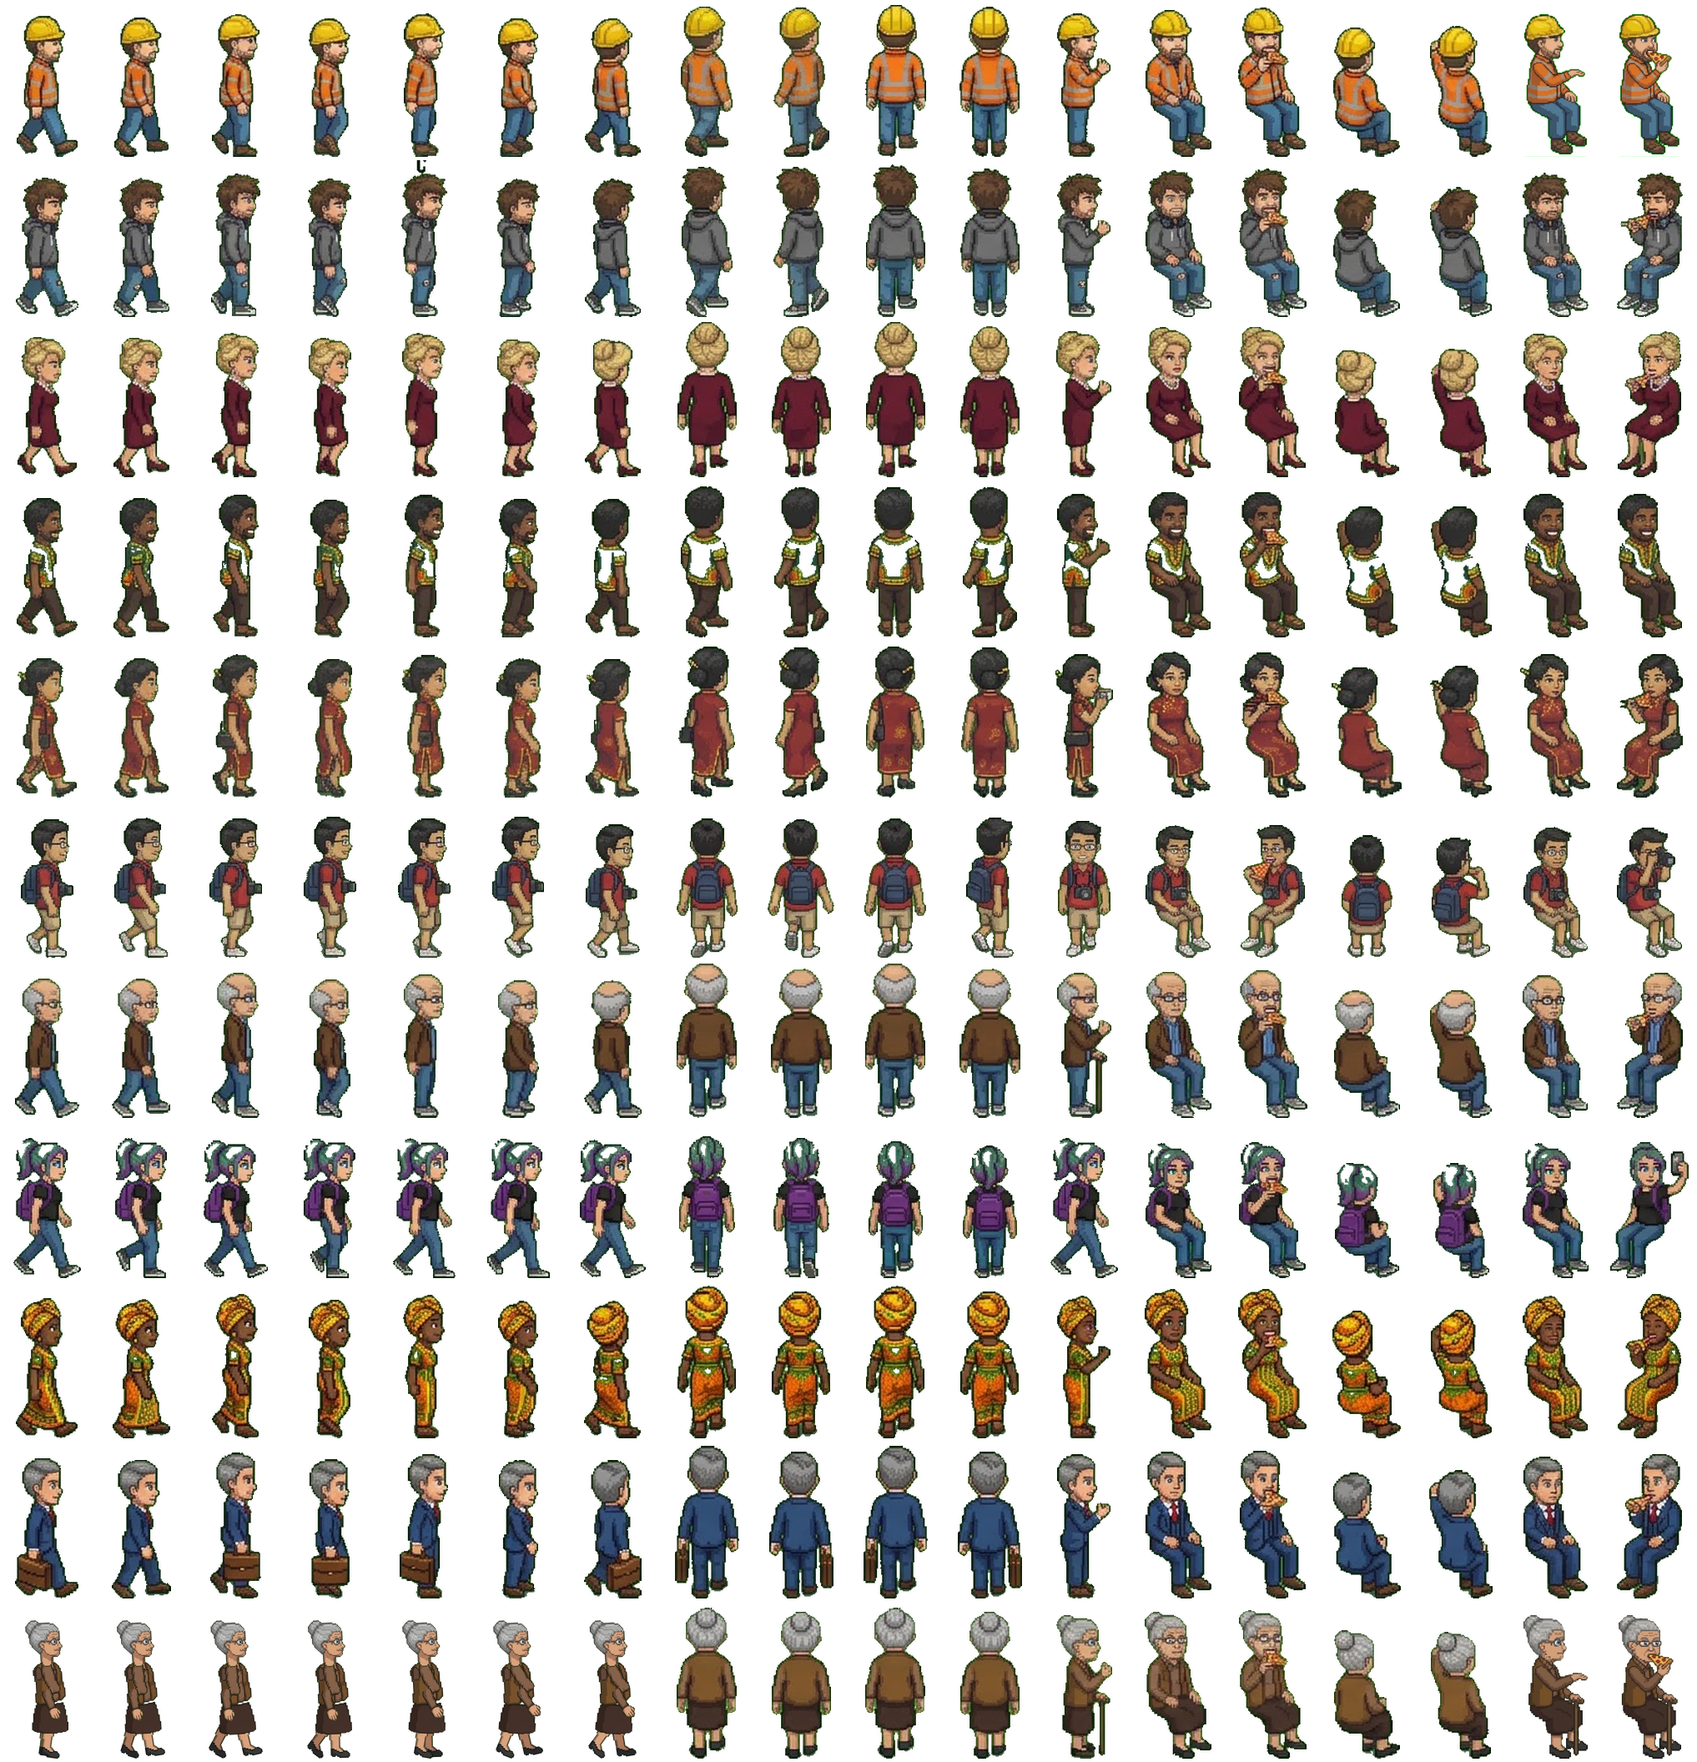
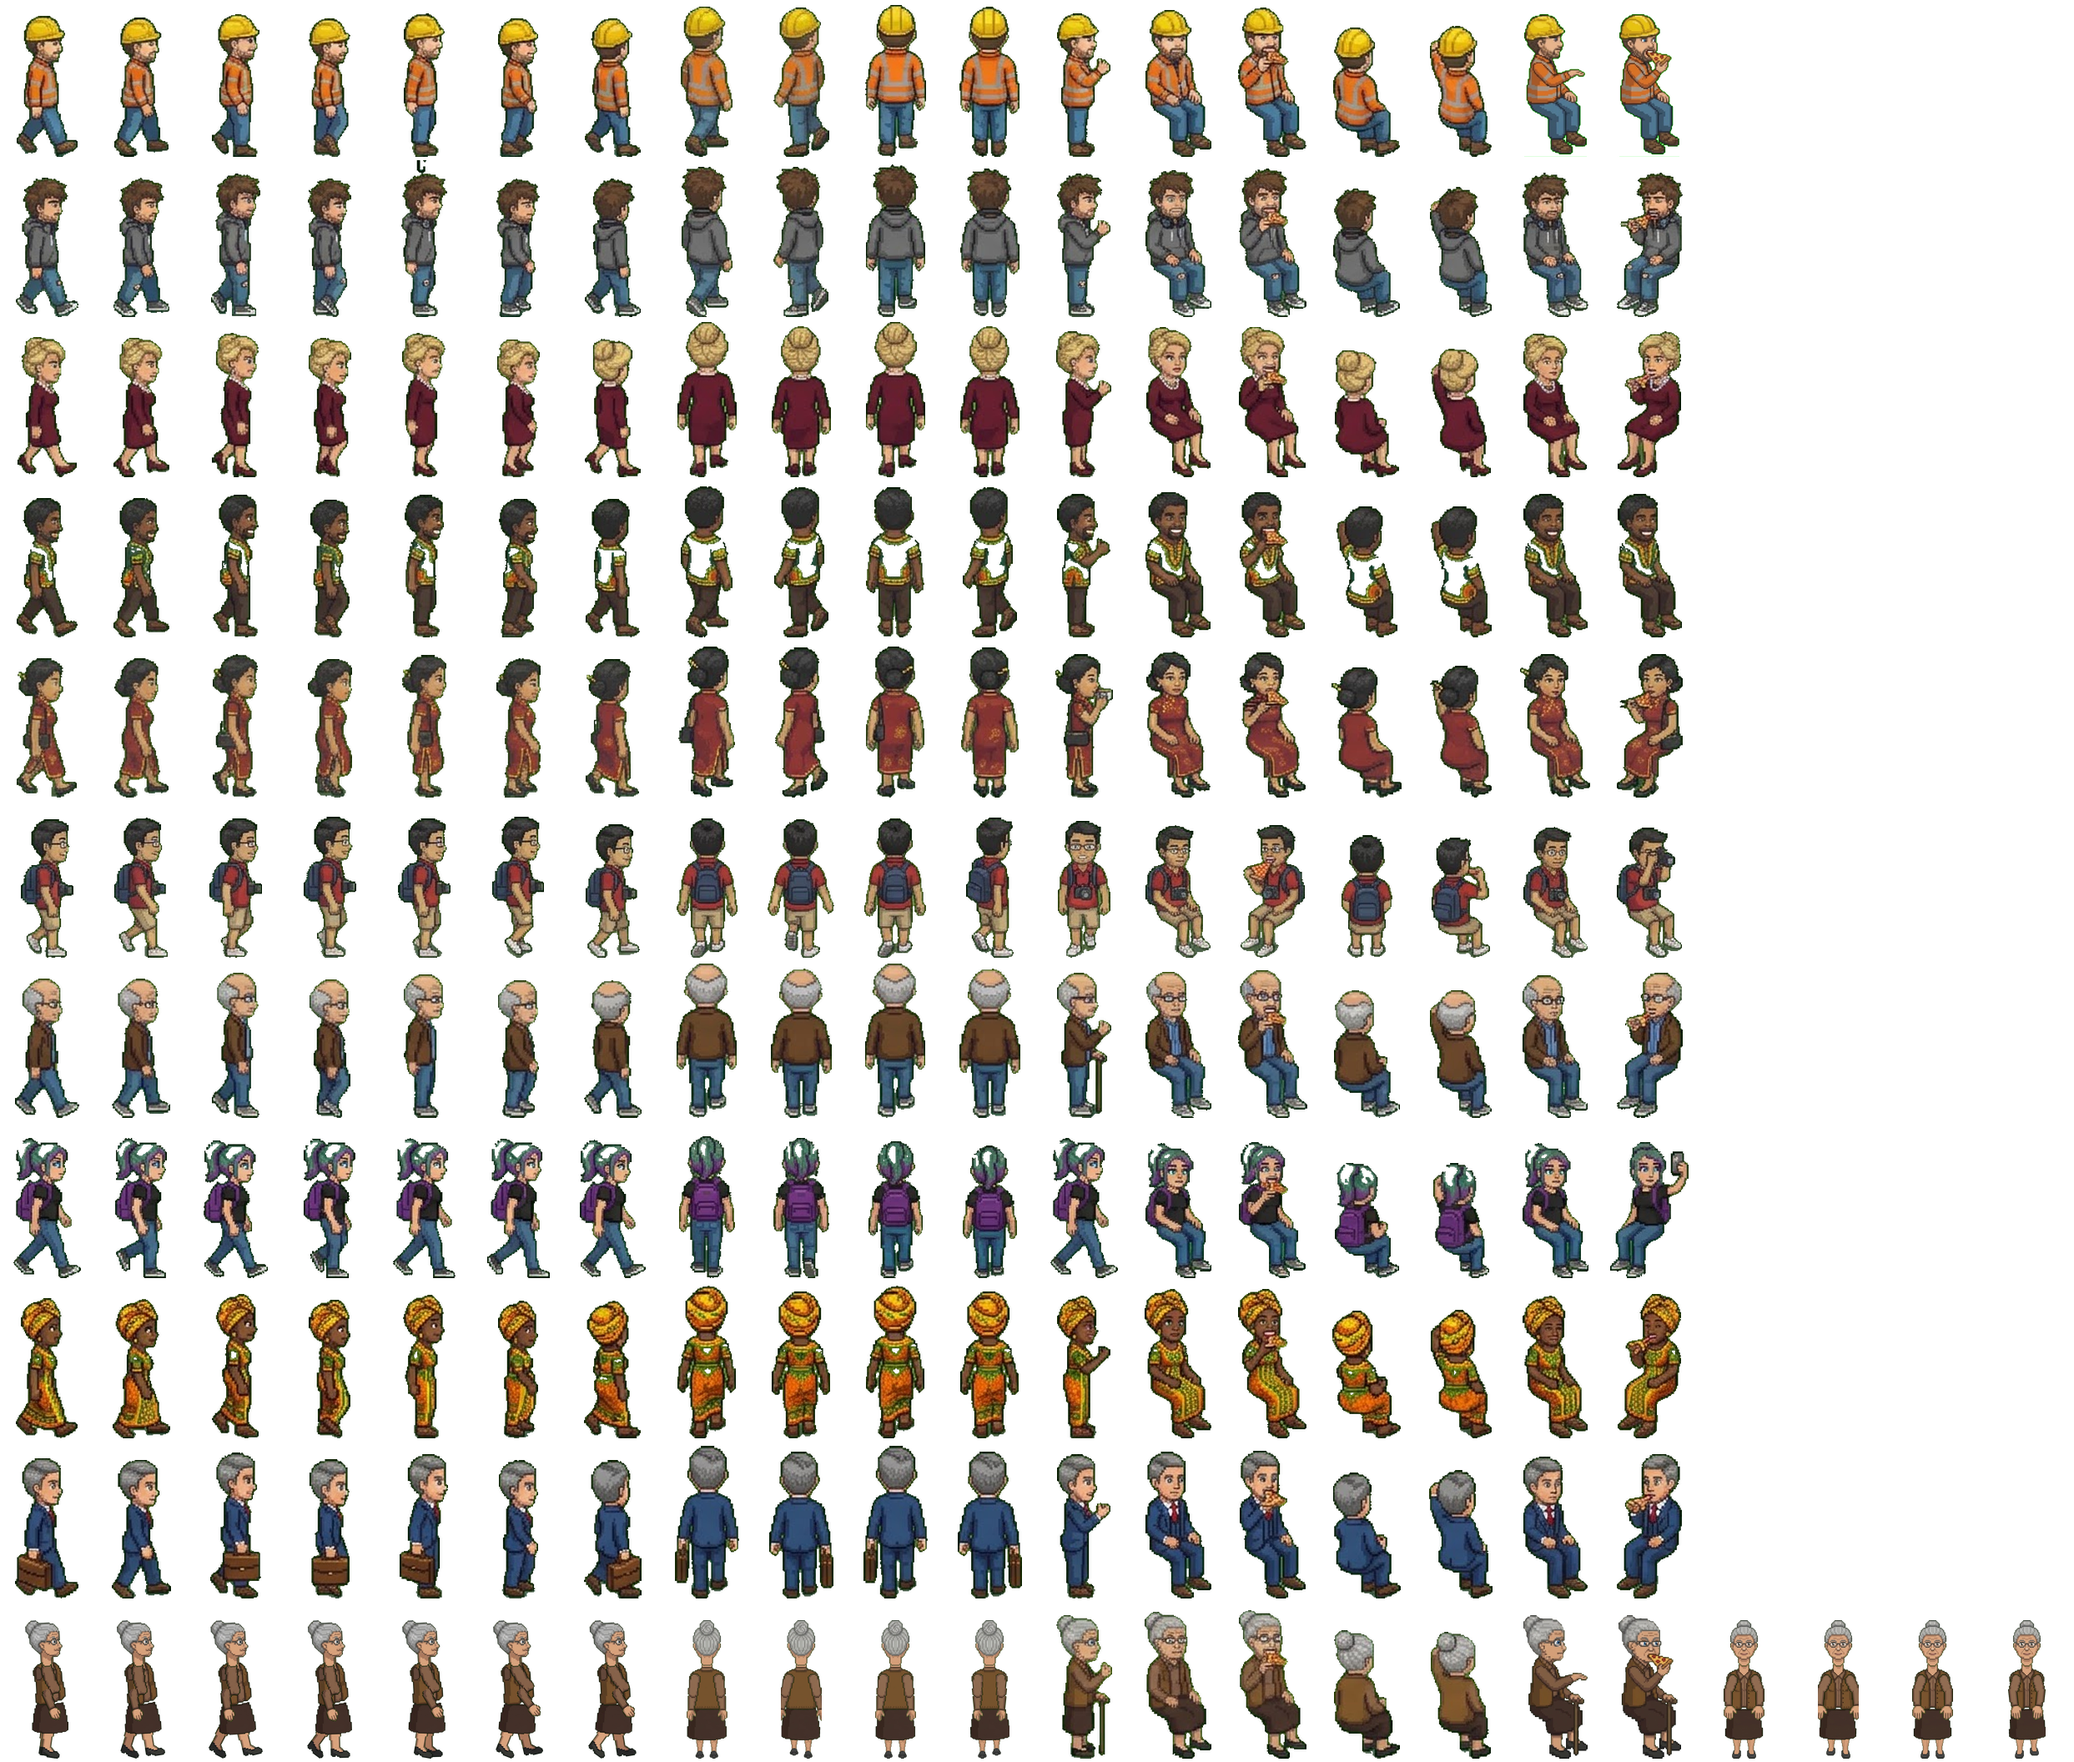
Pizzabaas: oma loopt in alle richtingen met plaatjes uit de poppetjes-generator
Claude-Session: https://claude.ai/code/session_01A1NZDKEqH4AvFTuhgNYDbP

diff --git a/pizzabaas.html b/pizzabaas.html
@@ -2926,6 +2926,7 @@ function figuur(img, p, bijzonder, rug, achter, vel) {
   else if (p.loopT > 0) {
     const c = Math.cos(p.kijk ?? 0), s = Math.sin(p.kijk ?? 0), stap = Math.floor(p.loopT * v.fps);
     if (s < 0 && -s > Math.abs(c)) f = v.rugLoop[stap % v.rugLoop.length]; // weg van de kijker
+    else if (v.voorLoop && s > 0 && s > Math.abs(c)) f = v.voorLoop[stap % v.voorLoop.length]; // naar de kijker toe (alleen figuren uit de poppetjes-generator)
     else { // opzij, en ook naar voren (een loopcyclus naar de kijker toe is er nog niet): opzij in de richting waar hij heen gaat
       if (Math.abs(c) > 0.15) p.opzij = c > 0 ? 1 : -1;
       f = v.opzij[stap % v.opzij.length]; spiegel = (p.opzij || 1) > 0 != v.rechts;
@@ -2941,11 +2942,13 @@ function figuur(img, p, bijzonder, rug, achter, vel) {
 }
 // ---------- klanten als getekende figuren (Gemini) ----------
 // pizza/klanten.png: per figuur een rij van 18 plaatjes van 113 x 192: 0-6 lopen opzij (neus naar rechts), 7-10 lopen van achteren, 11 staan,
-// 12 zitten voor, 13 eten voor, 14 zitten achter, 15 eten achter, 16 zitten opzij, 17 eten opzij (zittend: op een onzichtbare stoel)
+// 12 zitten voor, 13 eten voor, 14 zitten achter, 15 eten achter, 16 zitten opzij, 17 eten opzij (zittend: op een onzichtbare stoel),
+// 18-21 lopen naar voren (alleen rijen in VOORLOOP)
 // rijen: 0 werker (pizza/werker2-gemini.jpg), 1 student (student2), 2 villadame, 3 Afrikaanse man (afrikaan), 4 Chinese dame (dame-china2), 5 Chinese toerist (toerist),
 // 6 opa (opa2), 7 studente, 8 Afrikaanse vrouw (afrikaanse-vrouw), 9 zakenman, 10 oma (oma2)
 const KLANTEN = new Image(); KLANTEN.src = 'pizza/klanten.png';
-const KLANTVEL = (rij) => ({ rij, staan: 11, opzij: [0, 1, 2, 3, 4, 5, 6], rechts: true, rug: 7, rugLoop: [7, 8, 9, 10], fps: 9 });
+const VOORLOOP = { 10: [18, 19, 20, 21] }; // vakjes 18-21: lopen naar de kijker toe (uit extra/poppetjes_generator.py); nu alleen oma
+const KLANTVEL = (rij) => ({ rij, staan: 11, opzij: [0, 1, 2, 3, 4, 5, 6], rechts: true, rug: 7, rugLoop: [7, 8, 9, 10], voorLoop: VOORLOOP[rij], fps: 9 });
 const FIGUREN = { werker: [0, 0, 3], student: [1, 7], villa: [2, 9], toerist: [5, 4, 3, 8], opa: [6, 10] };
 function tekenKlantFig(m, nu) { // in wereldcoördinaten (pixels van de zaak); zittend op zijn stoel, of lopend
   const zit = m.st == 'wacht' || m.st == 'eet', v = KLANTVEL(m.fig);

diff --git a/extra/poppetjes_generator.py b/extra/poppetjes_generator.py
@@ -88,3 +88,49 @@ for i in range(7):
     if f.size[0] > 111: f = f.resize((111, round(f.size[1] * 111 / f.size[0])), Image.LANCZOS)
     strip.alpha_composite(f, (i * 113 + (113 - f.size[0]) // 2, 188 - f.size[1]))
 strip.save(os.path.join(UIT, 'lopen-opzij.png'))
+
+# ---------- van voren en van achteren (vellen -voor-, -achter- en -benen-) ----------
+# per vel: nummers van de vormpjes (zie het overzicht in pizza/PLAN.md) en hun scharnierpunten in velcoördinaten
+def laadVel(pad):
+    v, l = lees(pad)
+    def d(n, schaal=1):
+        m = (l == n).astype(np.uint8) * 255; m = np.array(Image.fromarray(m).filter(__import__('PIL.ImageFilter', fromlist=['x']).MinFilter(3)))
+        a = np.array(v).copy(); g = a[..., 1].astype(int); mx = np.maximum(a[..., 0], a[..., 2]).astype(int); a[..., 1] = np.where(g > mx + 10, mx + 10, g); a[..., 3] = m
+        im = Image.fromarray(a); bb = im.getbbox(); im = im.crop(bb)
+        if schaal != 1: im = im.resize((round(im.size[0] * schaal), round(im.size[1] * schaal)), Image.LANCZOS)
+        return im, bb
+    return d
+dir_ = os.path.dirname(BRON) or '.'; basis = os.path.basename(BRON).replace('-gemini.jpg', '')
+VEL = {k: laadVel(os.path.join(dir_, f'{basis}-{k}-gemini.jpg')) for k in ('voor', 'achter', 'benen')}
+def onderdeel(kant, n, schaal=1):  # (plaatje, midden-boven) van vormpje n
+    im, bb = VEL[kant](n, schaal); return im
+# voor: 1 hoofd, 2 romp, 6/7 armen, 10 rok; achter: 1 hoofd, 2 romp, 3 rok, 5/6 armen; benen: 1/2 voor, 3/4 achter
+DELEN = {'voor': dict(hoofd=1, romp=2, rok=10, arm=(6, 7), been=(1, 2)), 'achter': dict(hoofd=1, romp=2, rok=3, arm=(5, 6), been=(3, 4))}
+def recht(kant, s):  # houding van voren/achteren; s = -1 … 1 (welk been vooruit)
+    D2 = DELEN[kant]; doek = Image.new('RGBA', (900, 1300)); ox, oy = 450, 650 - abs(s) * 8
+    def zet(im, cx, ty, hoek=0):  # plaatje met het midden van de bovenkant op (cx, ty)
+        if hoek: im = im.rotate(-hoek, center=(im.size[0] / 2, 0), resample=Image.BICUBIC, expand=False)
+        doek.alpha_composite(im, (round(ox + cx - im.size[0] / 2), round(oy + ty)))
+    romp = onderdeel(kant, D2['romp']); hoofd = onderdeel(kant, D2['hoofd']); rok = onderdeel(kant, D2['rok'])
+    rok = rok.resize((rok.size[0], round(rok.size[1] * 0.78)), Image.LANCZOS)  # net als opzij: tot over de knie
+    benen = [onderdeel('benen', n, 0.5) for n in D2['been']]; armen = [onderdeel(kant, n) for n in D2['arm']]
+    for i, b in enumerate(benen):  # het been dat naar voren stapt, gaat een stukje omhoog (knie buigt)
+        til = max(0, s if i == 0 else -s) * 22
+        if til: b = b.resize((b.size[0], round(b.size[1] - til)), Image.LANCZOS)
+        zet(b, (-48 if i == 0 else 48), 10)
+    zet(rok, 0, -10, hoek=2 * s)
+    zet(romp, 0, -romp.size[1] + 8)
+    for i, a in enumerate(armen): zet(a, (-1 if i == 0 else 1) * (romp.size[0] / 2 - 32), -romp.size[1] + 95, hoek=(6 if i == 0 else -6) * s)
+    zet(hoofd, 0, -romp.size[1] - hoofd.size[1] + 40)
+    return doek.crop(doek.getbbox())
+for kant, aantal in (('voor', 4), ('achter', 4)):
+    strip = Image.new('RGBA', (113 * aantal, 192)); toon = []
+    for i in range(aantal):
+        s = math.sin(i / aantal * 2 * math.pi); f = recht(kant, s); toon.append(f)
+        hh = 166; f = f.resize((round(f.size[0] * hh / f.size[1]), hh), Image.LANCZOS)
+        if f.size[0] > 111: f = f.resize((111, round(f.size[1] * 111 / f.size[0])), Image.LANCZOS)
+        strip.alpha_composite(f, (i * 113 + (113 - f.size[0]) // 2, 188 - f.size[1]))
+    strip.save(os.path.join(UIT, f'lopen-{kant}.png'))
+    o = Image.new('RGB', (sum(t.size[0] + 30 for t in toon) + 30, max(t.size[1] for t in toon) + 20), (250, 240, 220)); x = 15
+    for t in toon: o.paste(t, (x, 10), t); x += t.size[0] + 30
+    o.save(os.path.join(UIT, f'gen-{kant}.png'))

diff --git a/pizza/CLAUDE.md b/pizza/CLAUDE.md
@@ -308,4 +308,5 @@ zijn pak is zelf groen). Daarvoor stonden daar plaatjes van opzij lopen en gleed
 Oma loopt van opzij (klanten rij 10, vakjes 0-6) met plaatjes uit de poppetjes-generator (`extra/poppetjes_generator.py`, onderdelenvel
 `pizza/oma-onderdelen-gemini.jpg`; uitvoer `lopen-opzij.png`, 166 px hoog, voeten op 187). Andere vellen van oma: `oma-onderdelen-zit-gemini.jpg`
 (zittende rok, bovenbenen, schouderkapje, armen met pizza en glas), `oma-onderdelen-voor-gemini.jpg` en `-achter-` (de benen daarop zijn per
-ongeluk van opzij getekend; nog een vel met benen van voren/achteren nodig).
+ongeluk van opzij getekend: de benen komen van `oma-onderdelen-benen-gemini.jpg`, 1/2 voor, 3/4 achter). Oma loopt nu in alle richtingen met
+generatorplaatjes: opzij 0-6, achter 7-10, voor 18-21 (`pizza/klanten.png` is 22 vakjes breed; `VOORLOOP` in de code zegt welke rijen 18-21 hebben).
